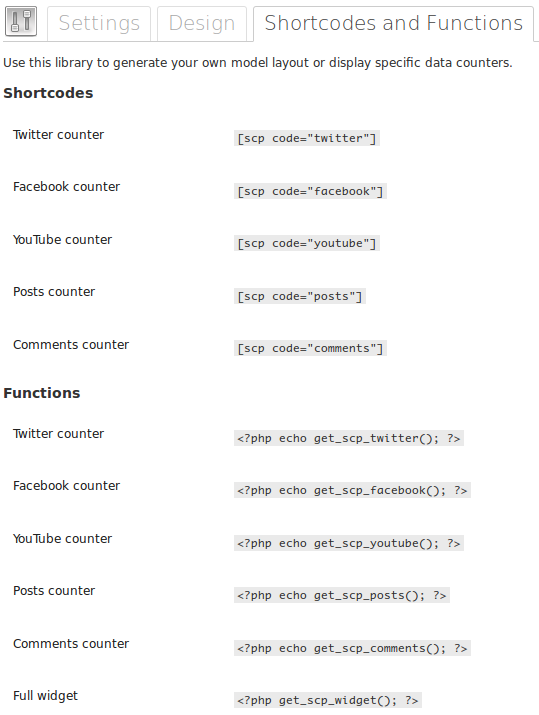
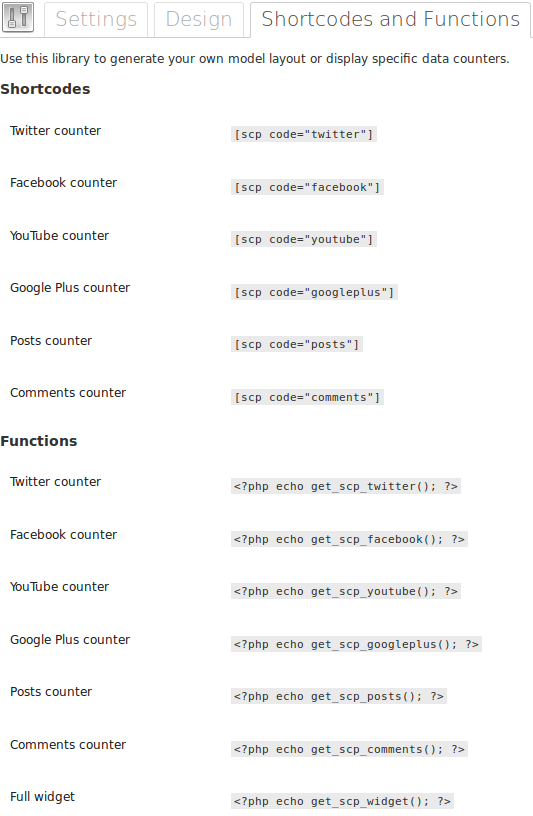
added Google Plus counter and updated the plugin to 2.4.0 version

diff --git a/assets/sass/counter.scss b/assets/sass/counter.scss
@@ -59,7 +59,7 @@
 
     .circle a {
         background-image: url('../images/sprite-circle.png') !important;
-        height: 36px !important;
+        height: 37px !important;
         width: 36px !important;
     }
 
@@ -124,21 +124,30 @@
         background-position: -72px 0 !important;
     }
 
-    /* Posts */
-    .default .count-posts a {
+    /* Google Plus */
+    .default .count-googleplus a {
         background-position: -96px 0 !important;
     }
 
-    .circle .count-posts a {
+    .circle .count-googleplus a {
         background-position: -108px 0 !important;
+    }
+
+    /* Posts */
+    .default .count-posts a {
+        background-position: -128px 0 !important;
+    }
+
+    .circle .count-posts a {
+        background-position: -144px 0 !important;
     }
 
     /* Comments */
     .default .count-comments a {
-        background-position: -128px 0 !important;
+        background-position: -160px 0 !important;
     }
 
     .circle .count-comments a {
-        background-position: -144px 0 !important;
+        background-position: -180px 0 !important;
     }
 }

diff --git a/social-count-plus.php b/social-count-plus.php
@@ -5,7 +5,7 @@
  * Description: Display the counting Twitter followers, Facebook fans, YouTube subscribers posts and comments.
  * Author: claudiosanches
  * Author URI: http://claudiosmweb.com/
- * Version: 2.3.0
+ * Version: 2.4.0
  * License: GPLv2 or later
  * Text Domain: socialcountplus
  * Domain Path: /languages/
@@ -143,7 +143,7 @@ class Social_Count_Plus {
                 'title' => __( 'Facebook Page ID', 'socialcountplus' ),
                 'default' => null,
                 'type' => 'text',
-                'description' => __( 'ID Facebook page. Must be the numeric ID.<br />You can find this information clicking to edit your page on facebook. The URL will be similar to this:<br />https://www.facebook.com/pages/edit/?id=<strong>162354720442454</strong>', 'socialcountplus' ),
+                'description' => __( 'ID Facebook page. Must be the numeric ID.<br />You can find this information clicking to edit your page on Facebook. The URL will be similar to this:<br />https://www.facebook.com/pages/edit/?id=<strong>162354720442454</strong>', 'socialcountplus' ),
                 'section' => 'facebook',
                 'menu' => 'socialcountplus_settings'
             ),
@@ -165,6 +165,26 @@ class Social_Count_Plus {
                 'type' => 'text',
                 'description' => __( 'Insert the YouTube username. Example: lemos81', 'socialcountplus' ),
                 'section' => 'youtube',
+                'menu' => 'socialcountplus_settings'
+            ),
+            'googleplus' => array(
+                'title' => __( 'Google Plus', 'socialcountplus' ),
+                'type' => 'section',
+                'menu' => 'socialcountplus_settings'
+            ),
+            'googleplus_active' => array(
+                'title' => __( 'Display Google Plus counter', 'socialcountplus' ),
+                'default' => null,
+                'type' => 'checkbox',
+                'section' => 'googleplus',
+                'menu' => 'socialcountplus_settings'
+            ),
+            'googleplus_id' => array(
+                'title' => __( 'Google Plus page ID', 'socialcountplus' ),
+                'default' => null,
+                'type' => 'text',
+                'description' => __( 'Google Plus page ID. Must be the numeric ID.<br />You can find this information clicking to edit your page on Google Plus. The URL will be similar to this:<br />https://plus.google.com/<strong>115161266310935247804</strong>', 'socialcountplus' ),
+                'section' => 'googleplus',
                 'menu' => 'socialcountplus_settings'
             ),
             'posts' => array(
@@ -242,13 +262,15 @@ class Social_Count_Plus {
         if ( get_option( 'scp_show_twitter' ) ) {
 
             $settings = array(
-                'twitter_active' => ( 'true' == get_option( 'scp_show_twitter' ) ) ? 1 : '',
-                'twitter_user' => get_option( 'scp_twitter' ),
+                'twitter_active'  => ( 'true' == get_option( 'scp_show_twitter' ) ) ? 1 : '',
+                'twitter_user'    => get_option( 'scp_twitter' ),
                 'facebook_active' => ( 'true' == get_option( 'scp_show_facebook' ) ) ? 1 : '',
-                'facebook_id'  => get_option( 'scp_facebook' ),
+                'facebook_id'     => get_option( 'scp_facebook' ),
                 // 'youtube_active' => '',
-                // 'youtube_user' => '',
-                'posts_active' => ( 'true' == get_option( 'scp_show_posts' ) ) ? 1 : '',
+                'youtube_user'    => '',
+                // 'googleplup_active' => '',
+                'googleplus_id'   => '',
+                'posts_active'    => ( 'true' == get_option( 'scp_show_posts' ) ) ? 1 : '',
                 'comments_active' => ( 'true' == get_option( 'scp_show_comment' ) ) ? 1 : '',
             );
 
@@ -406,6 +428,10 @@ class Social_Count_Plus {
                 $html .= '<td><p><code>[scp code=&quot;youtube&quot;]</code></p></td>';
             $html .= '</tr>';
             $html .= '<tr>';
+                $html .= '<th scope="row">' . __( 'Google Plus counter', 'socialcountplus' ) . '</th>';
+                $html .= '<td><p><code>[scp code=&quot;googleplus&quot;]</code></p></td>';
+            $html .= '</tr>';
+            $html .= '<tr>';
                 $html .= '<th scope="row">' . __( 'Posts counter', 'socialcountplus' ) . '</th>';
                 $html .= '<td><p><code>[scp code=&quot;posts&quot;]</code></p></td>';
             $html .= '</tr>';
@@ -429,6 +455,10 @@ class Social_Count_Plus {
             $html .= '<tr>';
                 $html .= '<th scope="row">' . __( 'YouTube counter', 'socialcountplus' ) . '</th>';
                 $html .= '<td><p><code>&lt;?php echo get_scp_youtube(); ?&gt;</code></p></td>';
+            $html .= '</tr>';
+            $html .= '<tr>';
+                $html .= '<th scope="row">' . __( 'Google Plus counter', 'socialcountplus' ) . '</th>';
+                $html .= '<td><p><code>&lt;?php echo get_scp_googleplus(); ?&gt;</code></p></td>';
             $html .= '</tr>';
             $html .= '<tr>';
                 $html .= '<th scope="row">' . __( 'Posts counter', 'socialcountplus' ) . '</th>';
@@ -641,7 +671,7 @@ class Social_Count_Plus {
             if ( isset( $input[$key] ) ) {
 
                 // Strip all HTML and PHP tags and properly handle quoted strings.
-                $output[$key] = strip_tags( stripslashes( $input[$key] ) );
+                $output[$key] = sanitize_text_field( $input[$key] );
             }
         }
 
@@ -711,6 +741,9 @@ class Social_Count_Plus {
                 // YouTube counter.
                 $html .= ( isset( $settings['youtube_active'] ) ) ? $this->get_view_li( 'youtube', 'www.youtube.com/user/' . $settings['youtube_user'], $count['youtube'], __( 'subscribers', 'socialcountplus' ) ) : '';
 
+                // Google Plus counter.
+                $html .= ( isset( $settings['googleplus_active'] ) ) ? $this->get_view_li( 'googleplus', 'https://plus.google.com/' . $settings['googleplus_id'], $count['googleplus'], __( 'followers', 'socialcountplus' ) ) : '';
+
                 // Posts counter.
                 $html .= ( isset( $settings['posts_active'] ) ) ? $this->get_view_li( 'posts', get_home_url(), $count['posts'], __( 'posts', 'socialcountplus' ) ) : '';
 
@@ -752,6 +785,9 @@ class Social_Count_Plus {
                 break;
             case 'youtube':
                 $counter = $count['youtube'];
+                break;
+            case 'googleplus':
+                $counter = $count['googleplus'];
                 break;
             case 'posts':
                 $counter = $count['posts'];

diff --git a/classes/class-counter.php b/classes/class-counter.php
@@ -42,11 +42,12 @@ class Social_Count_Plus_Counter {
 
         // Default count array.
         $count = array(
-            'twitter' => 0,
-            'facebook' => 0,
-            'youtube' => 0,
-            'posts' => 0,
-            'comments' => 0,
+            'twitter'    => 0,
+            'facebook'   => 0,
+            'youtube'    => 0,
+            'googleplus' => 0,
+            'posts'      => 0,
+            'comments'   => 0,
         );
 
         // Twitter.
@@ -62,11 +63,11 @@ class Social_Count_Plus_Counter {
                 $twitter_user = $settings['twitter_user'];
 
                 $twitter_data_params = array(
-                    'method'     => 'GET',
-                    'sslverify'  => false,
-                    'timeout'    => 30,
-                    'headers'    => array(
-                        'Content-Type' => 'application/x-www-form-urlencoded',
+                    'method'    => 'GET',
+                    'sslverify' => false,
+                    'timeout'   => 30,
+                    'headers'   => array(
+                        'Content-Type'  => 'application/x-www-form-urlencoded',
                         'Authorization' => $this->twitter_oauth(
                             $twitter_user,
                             $settings['twitter_consumer_key'],
@@ -143,6 +144,40 @@ class Social_Count_Plus_Counter {
                         $cache['youtube'] = $youtube_count;
                     } else {
                         $count['youtube'] = ( isset( $cache['youtube'] ) ) ? $cache['youtube'] : 0;
+                    }
+                }
+            }
+        }
+
+        // Google Plus.
+        if ( isset( $settings['googleplus_active'] ) ) {
+            // Test if googleplus_id is empty.
+            if ( ! empty( $settings['googleplus_id'] ) ) {
+                $googleplus_id = 'https://plus.google.com/' . $settings['googleplus_id'];
+
+                $googleplus_data_params = array(
+                    'method'    => 'POST',
+                    'sslverify' => false,
+                    'timeout'   => 30,
+                    'headers'   => array( 'Content-Type' => 'application/json' ),
+                    'body'      => '[{"method":"pos.plusones.get","id":"p","params":{"nolog":true,"id":"' . $googleplus_id . '","source":"widget","userId":"@viewer","groupId":"@self"},"jsonrpc":"2.0","key":"p","apiVersion":"v1"}]'
+                );
+
+                // Get googleplus data.
+                $googleplus_data = wp_remote_get( 'https://clients6.google.com/rpc', $googleplus_data_params );
+
+                if ( is_wp_error( $googleplus_data ) || '400' <= $googleplus_data['response']['code'] ) {
+                    $count['googleplus'] = ( isset( $cache['googleplus'] ) ) ? $cache['googleplus'] : 0;
+                } else {
+                    $googleplus_response = json_decode( $googleplus_data['body'], true );
+
+                    if ( isset( $googleplus_response[0]['result']['metadata']['globalCounts']['count'] ) ) {
+                        $googleplus_count = $googleplus_response[0]['result']['metadata']['globalCounts']['count'];
+
+                        $count['googleplus'] = $googleplus_count;
+                        $cache['googleplus'] = $googleplus_count;
+                    } else {
+                        $count['googleplus'] = ( isset( $cache['googleplus'] ) ) ? $cache['googleplus'] : 0;
                     }
                 }
             }

diff --git a/inc/functions.php b/inc/functions.php
@@ -50,6 +50,18 @@ function get_scp_youtube() {
 }
 
 /**
+ * Google Plus counter function.
+ *
+ * @return int Google Plus count.
+ */
+function get_scp_googleplus() {
+    global $social_count_plus_counter;
+    $count = $social_count_plus_counter->update_transients();
+
+    return $count['googleplus'];
+}
+
+/**
  * Posts counter function.
  *
  * @return int Posts count.

diff --git a/README.md b/README.md
@@ -4,7 +4,7 @@
 **Tags:** facebook, twitter, youtube, counter, widget, shortcode  
 **Requires at least:** 3.4  
 **Tested up to:** 3.5.1  
-**Stable tag:** 2.3.0  
+**Stable tag:** 2.4.0  
 **License:** GPLv2 or later  
 **License URI:** http://www.gnu.org/licenses/gpl-2.0.html  
 
@@ -109,7 +109,11 @@ O cache não só evita que o seu blog estar buscando novos resultados cada vez q
 
 ## Changelog ##
 
-### 2.3 20/06/2013 ###
+### 2.4.0 21/06/2013 ###
+
+* Added Google Plus counter.
+
+### 2.3.0 20/06/2013 ###
 
 * Updated the Twitter API to 1.1 version.
 
